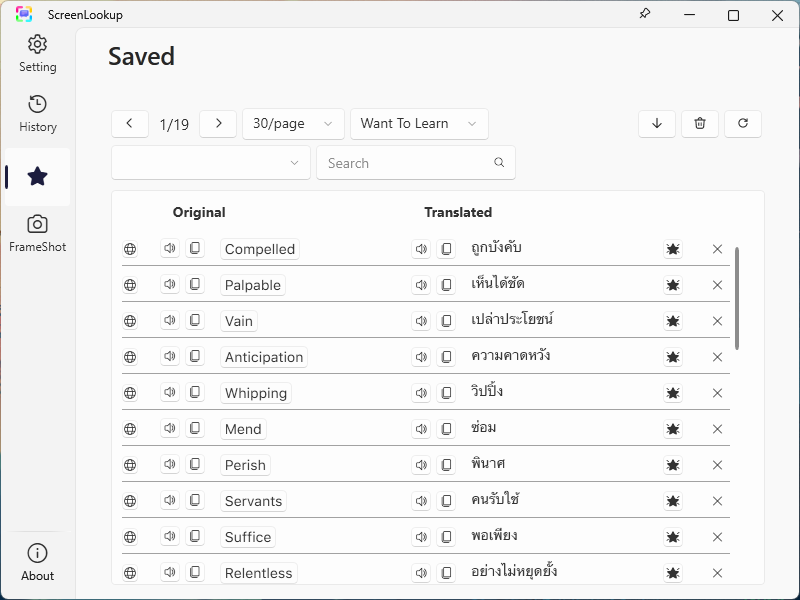
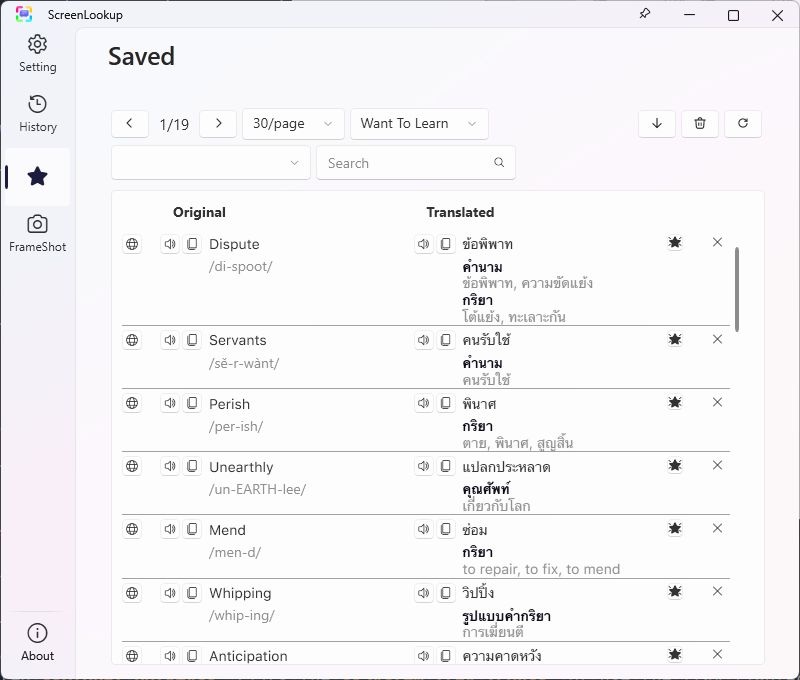
doc: readme

diff --git a/README.md b/README.md
@@ -1,28 +1,28 @@
-# ScreenLookup - Real-time Screen OCR, Translation & VR Language Learning Tool
+# ScreenLookup - Screen & VR Translation
 
-ScreenLookup is a Windows desktop and SteamVR application designed for language learning from games, movies, and desktop applications. It extracts text from the screen using OCR, translates it into your target language, provides dictionary alternative meanings/parts of speech, and speaks pronunciations with Text-To-Speech (TTS).
+ScreenLookup is a **Screen** & **VR** tool for learning foreign language vocabulary through translation. It extracts text from the image using OCR. Provides translation, alternative meanings, phonetic, and Text-To-Speech.
 
 [Download Latest Release](https://github.com/chaixshot/ScreenLookup/releases)
 
 ## Features & Highlights
 
-* **Desktop & VR Screen Capture**: Perform instant OCR on any selected desktop area or use 3D hand gestures in SteamVR (FrameShot) without removing your headset.
-* **Rich Dictionary & Alternative Meanings**: Click any word to view primary translations plus parts of speech (`noun`, `verb`, `adjective`) and alternate meanings (Google Translate).
+* **Desktop Screen & VR Capture**: Perform OCR on any selected desktop area or hand gestures in SteamVR to make a capture frame.
+* **Rich Dictionary & Alternative Meanings**: Click any word to view primary translations plus parts of speech (`noun`, `verb`, `adjective`) and alternate meanings.
 * **OCR & Hunspell Correction**: High-accuracy optical character recognition with optional Hunspell dictionary spell-correction for stylized game fonts.
-* **Text-To-Speech (TTS)**: Listen to native audio pronunciations for source words and translated sentences.
+* **Text-To-Speech**: Listen to native audio pronunciations for source words and translated sentences.
 * **Dual Display Modes**:
   * **On Image**: Places interactive, clickable word boxes directly over the captured image.
   * **On Line**: Displays a clean, structured text list.
 * **History & Vocabulary Management**:
   * **History**: Automatically records previous captures and translations.
   * **Saved Words**: Bookmark new vocabulary and track your review priority scores.
-* **Multiple Translation Engines**: Switch between Google, Google New, Bing, Microsoft Azure, and Yandex.
+* **Multiple Translation Engines**: Switch between Google, Google New, Bing, Microsoft Azure, Yandex, local LLM, and cloud LLM.
 
 ## Prerequisites
 
 * **OS**: Windows 10 / Windows 11 (64-bit)
 * **Runtime**: [.NET 10 Desktop Runtime](https://dotnet.microsoft.com/)
-* **VR Headset (Optional)**: SteamVR-compatible headset (Meta Quest via Link/VD, Valve Index, HTC Vive, etc.) for FrameShot VR features.
+* **VR Headset (Optional)**: SteamVR compatible VR headset.
 
 ## Getting Started
 
@@ -34,15 +34,16 @@ ScreenLookup is a Windows desktop and SteamVR application designed for language 
    * Select your **Target Language**, **Translation Provider**, and **TTS Provider**.
 
 2. **Choose Lookup Display Method**:
-  <img width="500" src="Resource/Caping.png" />
+   * **Capture Screen**<br> <img width="500" src="Resource/Capturing.png" />
    * **On Image**: Overlays interactive text blocks directly over the screenshot.
-     <img width="500" src="Resource/OnImage.png"/>
+       <img width="500" src="Resource/OnImage.png"/> <img width="500" src="Resource/OnImage_Expaneded.png"/>
    * **On Line**: Places all words neatly into a text box.
-     <img width="500" src="Resource/OnLine.png"/>
+       <img width="500" src="Resource/OnLine.png"/>
 
 3. **Perform Desktop Lookup**:
-   * Press your configured **Global Hotkey**, click the **System Tray Icon**, or use the tray right-click menu.
+   * Press your configured **Global Hotkey** or click the **Tray Icon** to start desktop capture.
    * Click any word in the result window to open the **Word Flyout** for dictionary definitions, alternative meanings, audio playback, and saving vocabulary.
+    <img width="500" src="Resource/FlyOut.png"/>
 
 ## History
 
@@ -51,7 +52,7 @@ The **History** page automatically logs every screen lookup capture, full-senten
 <img width="600" src="Resource/HistoryPage.png" />
 
 * **Interactive OCR Word Cards**: Hover over any captured sentence in the **Original** column to reveal individual interactive word cards. Click any word to trigger the **Word Flyout**.
-* **Audio Pronunciation**: Independent Text-To-Speech (TTS) speaker buttons for full captured sentences and translations.
+* **Audio Pronunciation**: Independent Text-To-Speech speaker buttons for full captured sentences and translations.
 * **Instant Search & Language Filtering**: Search history entries in real-time or filter captures by **Source Language**.
 * **One-Click Re-Translation**: Re-translate past captured text if the primary translation provider failed or if settings were changed.
 * **Export & Management**: Export complete lookup history to CSV for external study or clear logs with one click.
@@ -65,11 +66,10 @@ The **Saved Words** allows you to build, review, and manage your personal vocabu
 * **Word Dictionary Flyout**: Click any word in the **Original** column to pop up the **Word Flyout** worfor interactive definitions and audio playback.
 * **Inline Extra Meanings**: Displays parts of speech and alternative dictionary meanings directly under the **Translated** column when available.
 * **Priority Ranking ("Want To Learn")**: Sort words by priority score (`Want To Learn`) or addition date (`Added Time`). Incrementing a word's score moves it to the top of your review queue when encountered repeatedly.
-* **Audio Pronunciation**: Independent Text-To-Speech (TTS) speaker buttons for both source words and target translations.
+* **Audio Pronunciation**: Independent Text-To-Speech speaker buttons for both source words and target translations.
 * **Online Dictionary Lookup**: Click the browser button on any word entry to open external web dictionary searches.
 * **Filtering & Real-Time Search**: Filter vocabulary entries by **Source Language** or use the instant search auto-suggest box.
 * **Export Data**: Export your saved vocabulary list to CSV format for Anki/flashcard import or external study.
-
 
 ## FrameShot (VR Capture)
 
@@ -79,24 +79,24 @@ ScreenLookup includes native **SteamVR / OpenVR** integration allowing you to ca
 
 ### SteamVR Setup
 
-* Connect directly to **SteamVR** from the **FrameShot** page, or enable **Auto Connect**.
-* Select **Render Eye Side** (`Left Eye` or `Right Eye`) for projection rendering.
+* Connect directly to **SteamVR** from the **FrameShot** page.
+* Select **Render Eye Side** to choose the eye side projection to capture.
 
 ### VR Gestures & Controls
 
-1. **Bring Controllers Together**: Move both VR controllers close to each other within the `Activation Radius`.
-1. **Start Framing**: Press and hold the **Grip** buttons on both controllers.
-1. **Define Frame**: Pull your hands apart to stretch the 3D capture box in VR space.
-1. **Capture**: Release the **Right Grip** to capture the framed area (release **Left Grip** to cancel).
-   * *Option Mode*: Hold **Trigger** and release **Right Grip** to enter option mode.
-1. **Overlay Controls**: Pointer at the overlay then:
-   * Press **A / X** once on the VR controller to close the overlay.
-   * Press **A / X** twice to recenter the overlay in front of your headset.
-
-### VR Overlay Customization
-
-* **Appearance**: Adjust `Overlay Height`, `Distance`, `Scale`, `Scroll Speed`, and `Curve` (0–100%).
-* **HMD Rotation**: Optionally tilt the capture frame with head movement (`Use HMD Rotations` and threshold sensitivity).
+1. Bring both VR controllers together in **Activation Radius**.
+1. Hold **both Grip** buttons for half second.
+1. Pull hands apart to create the capture frame.
+   * Release **Right Grip** to capture, **Left Grip** to **cancel**.
+   * Holding **Left Trigger**, then capture to **show options**.
+   * Press **Right Trigger** to show the **last result**.
+1. ScreenLookup overlay
+   * Press **Trigger** to click.
+   * Press **A/X** to close.
+   * Press **B/Y** to recenter.
+   * Press **Grip** to grab the overlay to control overaly Distance and High.
+   * While grabbing, hold **Trigger** and **push/pull** controller to scaling.
+   * While grabbing, **push/pull** Thumbstick to control overaly Distance.
 
 ## Troubleshooting & Tips
 
